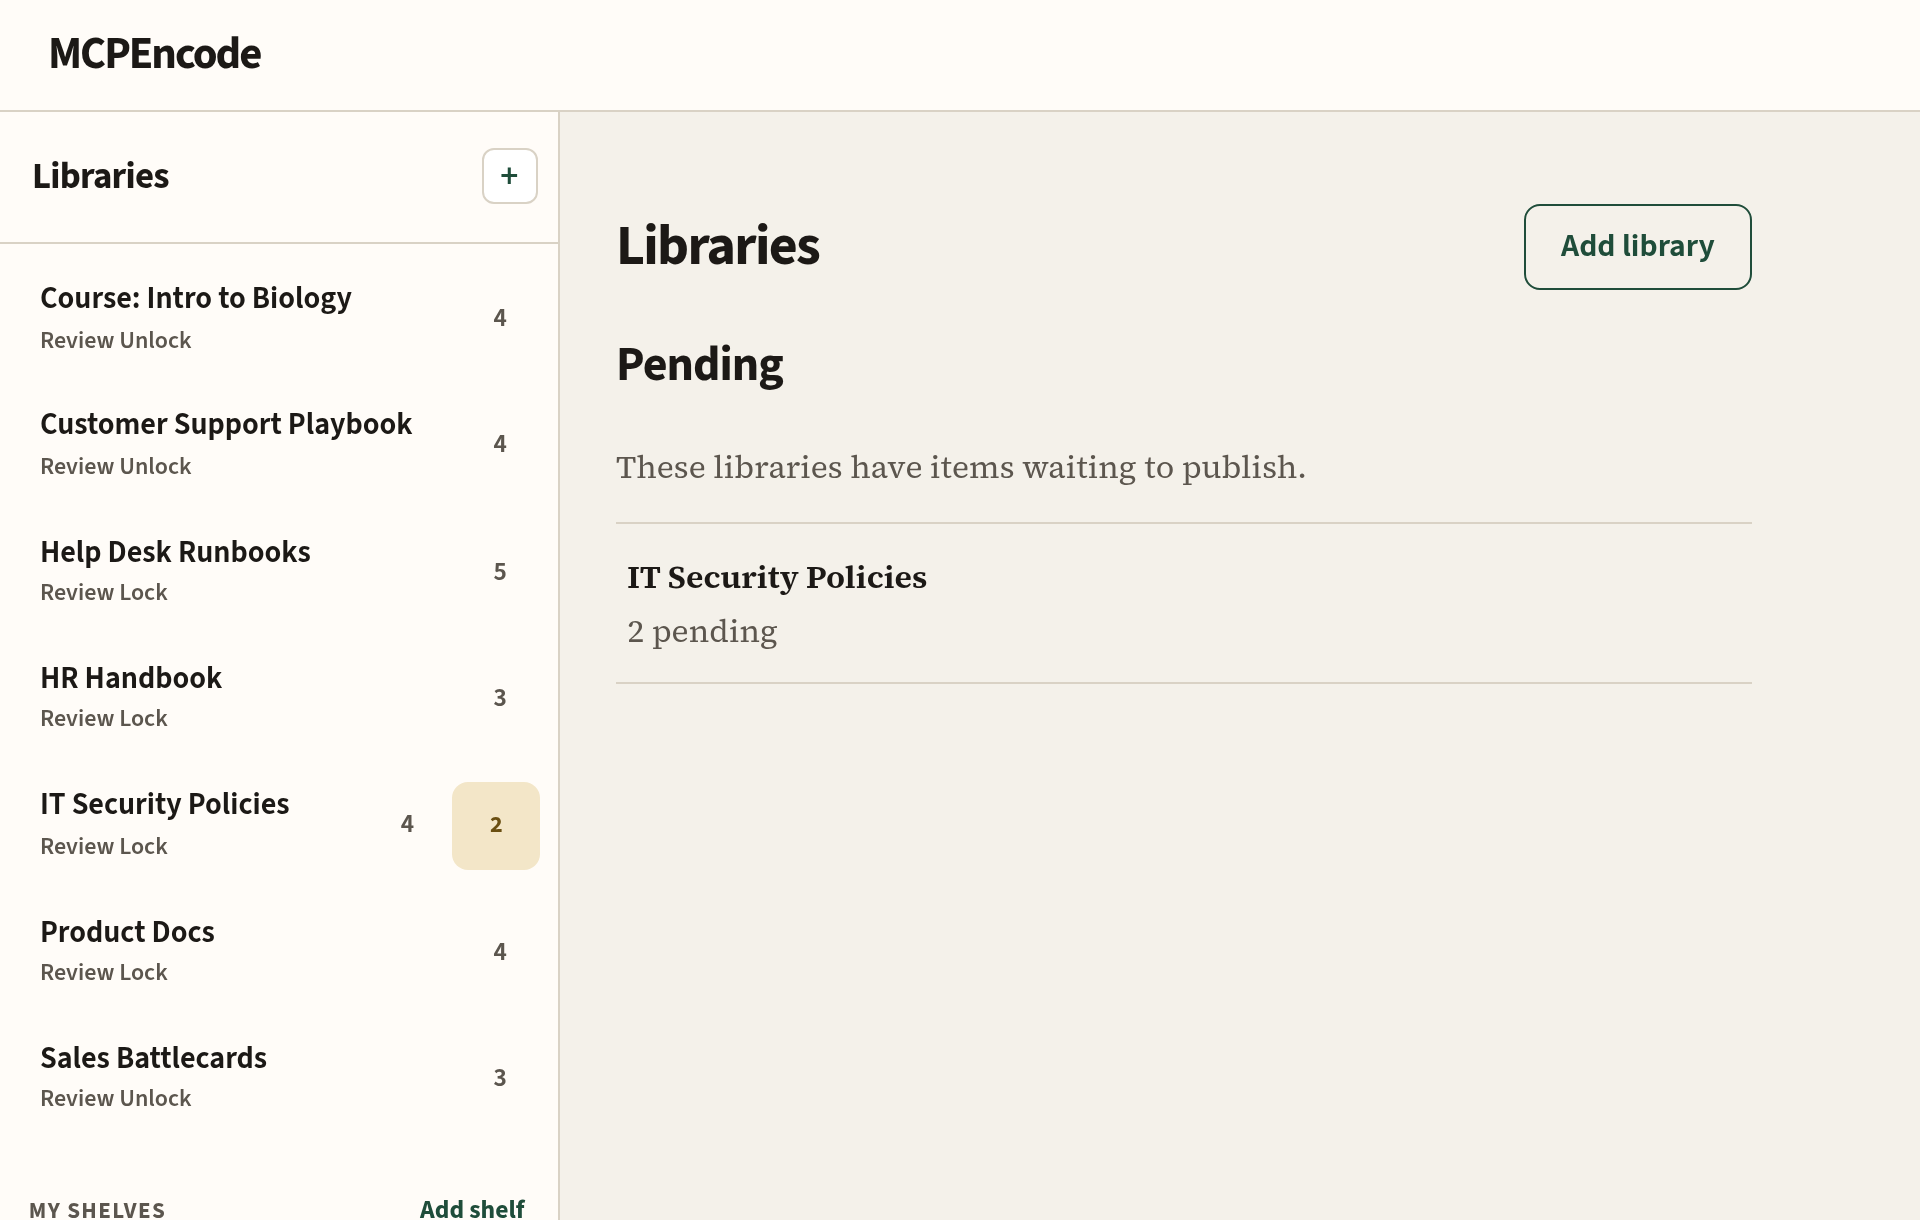
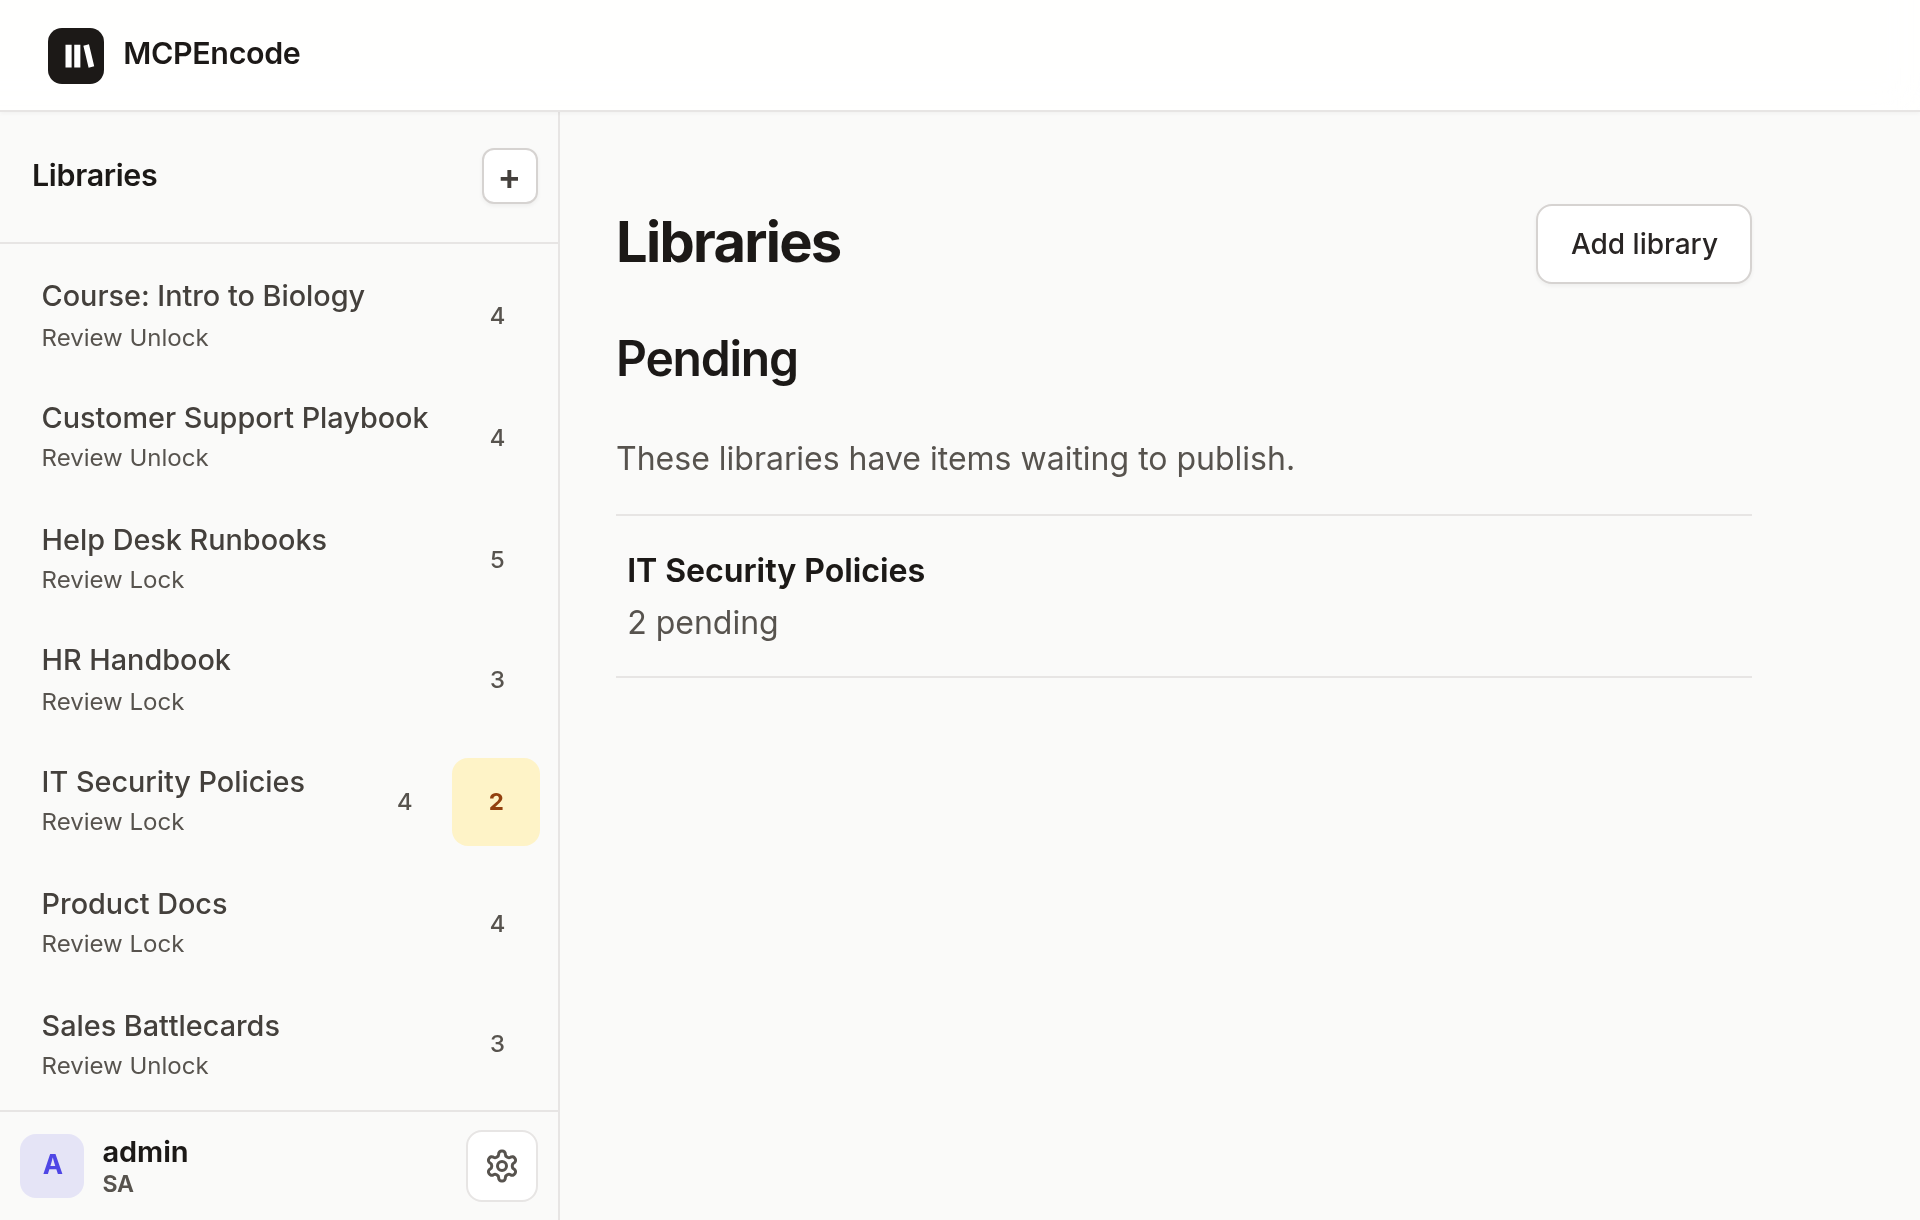
Restyle phase 5: QA, screenshots and changelog (#23)
axe-core (WCAG 2.2 AA) and keyboard pass over every page: fix
.schema-field-req contrast (4.1:1 -> ink-600), restore a visible focus
outline on checkboxes and radios, name the pending-item checkboxes, make
the Connect link box keyboard-focusable. Regenerate docs/assets from
seed-demo in the new look and consolidate the restyle CHANGELOG entry.

diff --git a/public/styles.css b/public/styles.css
@@ -397,7 +397,7 @@ pre { background: var(--ink-50); border: 1px solid var(--line); border-radius: v
 }
 .schema-field-name { font-weight: 600; color: var(--muted); }
 .schema-field-req {
-  color: color-mix(in srgb, var(--muted) 78%, var(--white));
+  color: var(--ink-600); /* was a 78% tint of --muted: 4.1:1, below AA */
   font-weight: 450;
   flex-shrink: 0;
 }
@@ -1165,6 +1165,9 @@ input[aria-invalid="true"], textarea[aria-invalid="true"] { border-color: var(--
 fieldset { border: 1px solid var(--line); border-radius: var(--radius-lg); }
 legend { font-family: var(--font-sans); font-weight: 600; color: var(--ink-800); padding: 0 0.35rem; }
 @media (prefers-reduced-motion: reduce) { input, textarea, select { transition: none; } }
+/* Checkboxes and radios draw no border ring, so keep the outline for keyboard focus. */
+input[type="checkbox"]:focus, input[type="radio"]:focus { box-shadow: none; }
+input[type="checkbox"]:focus-visible, input[type="radio"]:focus-visible { outline: 2px solid var(--focus); outline-offset: 2px; }
 dl.details { display: grid; gap: 0.35rem; margin: 0.75rem 0 1rem; }
 dl.details div { display: grid; grid-template-columns: 11rem 1fr; gap: 0.75rem; }
 dl.details dt { color: var(--muted); }

diff --git a/src/http/pages/libraries.ts b/src/http/pages/libraries.ts
@@ -844,12 +844,12 @@ export function libraryPage(input: {
     : "";
   const connectBox = connectReveal
     ? `<div class="mcp-link-box">
-          <code class="mcp-link" id="mcp-url">${esc(connectReveal)}</code>
+          <code class="mcp-link" tabindex="0" id="mcp-url">${esc(connectReveal)}</code>
           <button type="button" class="btn mcp-copy" data-copy="#mcp-url">Copy</button>
         </div>
         <p class="mcp-panel-note"><strong>Copy this link now. You won't see it again.</strong> To get a link later, rotate it.</p>`
     : `<div class="mcp-link-box">
-          <code class="mcp-link mcp-link-masked" id="mcp-url">${esc(input.mcpUrl)}</code>
+          <code class="mcp-link mcp-link-masked" tabindex="0" id="mcp-url">${esc(input.mcpUrl)}</code>
         </div>
         <p class="mcp-panel-note">${
           canWrite

diff --git a/src/http/pages/layout.ts b/src/http/pages/layout.ts
@@ -257,7 +257,7 @@ export function itemListMarkup(
         if (selectable) {
           return `
       <li class="item-row">
-        <input type="checkbox" name="item_id" value="${esc(row.id)}" id="pick-${esc(row.id)}" class="item-pick">
+        <input type="checkbox" name="item_id" value="${esc(row.id)}" id="pick-${esc(row.id)}" class="item-pick" aria-label="Select ${esc(row.name)}">
         <a href="/items/${esc(row.id)}?library=${esc(libraryId)}" class="item-link">
           ${body}
         </a>

diff --git a/CHANGELOG.md b/CHANGELOG.md
@@ -2,14 +2,22 @@
 
 ## Unreleased
 
-### Changed
+### Changed: new look ([#23](https://github.com/hkrlogic/MCPEncode/issues/23))
 
-- **Restyle phase 4: sign-in and consent pages** ([#23](https://github.com/hkrlogic/MCPEncode/issues/23)). Sign in, Create account (first run), Allow access and the host-approval / denied pages share the landing hero look: the logo mark above a centred card on a faint CSS-only grid, with full-width primary and secondary buttons. No scripts added.
-- **Restyle phase 3: header, nav and sidebar** ([#23](https://github.com/hkrlogic/MCPEncode/issues/23)). The top bar shows the landing page's logo mark next to the name and uses lighter, smaller nav text; the library sidebar marks the open library with a white raised row and an indigo bar; Connect, Reader key and the item ⋯ menu look like secondary buttons, with indigo while open. Class names are unchanged (one new class, `brand-mark`, on the logo SVG).
-- **Restyle phase 2: components** ([#23](https://github.com/hkrlogic/MCPEncode/issues/23)). Buttons (ink primary, secondary, ghost, danger, danger-ghost), tags, status pills (with a leading dot) and badges, panels and notices, item lists and tables, the diff/review view, the schema segmented control, the write-mode switch and the slide-up sheet follow the landing page. Transitions use one easing curve; a reduced-motion catch-all turns them off. Class names are unchanged.
-- **Restyle phase 1: base elements and color tokens** ([#23](https://github.com/hkrlogic/MCPEncode/issues/23)). Body, links, headings, labels, fieldsets, inputs, selects and textareas use the new tokens (shadow-sm, 8px radius, indigo focus ring); `code`/`pre` use JetBrains Mono; one global `:focus-visible` rule replaces the duplicated per-element ones. Every remaining hard-coded hex colour in `public/styles.css` now uses a token (beige → ink, amber → warn, green → success, red → danger), all at WCAG AA or better. Class names are unchanged.
-- **Restyle phase 0: design tokens and fonts** ([#23](https://github.com/hkrlogic/MCPEncode/issues/23)). `public/styles.css` gains design tokens shared with the landing page (ink neutrals, indigo accent, danger/warn/success, `--font-sans`/`--font-mono`, radius, shadows, spacing, easing). The original `--bg`, `--ink`, `--muted`, `--line`, `--panel`, `--accent`, `--danger` and `--focus` now point at them, so the app turns indigo-on-stone. Class names are unchanged.
-- Fonts: Inter and JetBrains Mono (SIL OFL 1.1, self-hosted in `public/fonts`) replace Source Sans 3 and Source Serif 4; body text is now sans-serif. `scripts/fetch-fonts.sh` fetches the new pair.
+The web app now matches the MCPEncode landing page: Inter and JetBrains Mono, stone neutrals, an indigo accent, softer cards and one easing curve. This release changes only CSS, fonts and a few lines of markup. Class names, routes, settings and the database are unchanged.
+
+- **Design tokens** in `public/styles.css`: ink neutrals, indigo accent, danger / warn / success, `--font-sans` / `--font-mono`, radius, shadows, spacing and easing. The original `--bg`, `--ink`, `--muted`, `--line`, `--panel`, `--accent`, `--danger` and `--focus` point at them, and no hard-coded hex colours remain outside `:root`.
+- **Fonts:** Inter and JetBrains Mono (SIL OFL 1.1) are self-hosted in `public/fonts` and replace Source Sans 3 and Source Serif 4. Body text is now sans-serif. `scripts/fetch-fonts.sh` fetches the new pair, and `NOTICE` is updated.
+- **Base elements and components:** inputs get an indigo focus ring. Buttons (ink primary, secondary, ghost, danger), tags and status pills (with a leading dot), panels, notices, lists, tables, the diff view, the schema segmented control, the write-mode switch and the slide-up sheet are all restyled.
+- **Header and sidebar:** the logo mark sits beside the name. The open library has a white raised row with an indigo bar. Connect, Reader key and the ⋯ menu look like secondary buttons.
+- **Sign-in, first-run and consent pages:** a centred card under the logo on a faint CSS-only grid, with full-width buttons. No scripts were added and the CSP is unchanged.
+- **Accessibility:**
+  - Every text colour pair meets WCAG AA (small text never lighter than ink-600, 7.3:1 or more on the app background).
+  - The write-mode switch's off state meets 3:1 for UI components.
+  - One global `:focus-visible` ring is used throughout, and checkboxes and radios keep a visible focus outline.
+  - Pending-item checkboxes now have an accessible name, and the Connect link box can be reached with the keyboard.
+  - `prefers-reduced-motion` turns off every transition and animation.
+- **Screenshots:** `docs/assets/*.png` were regenerated from `npm run seed-demo` in the new look.
 
 ## v0.2.1
 
